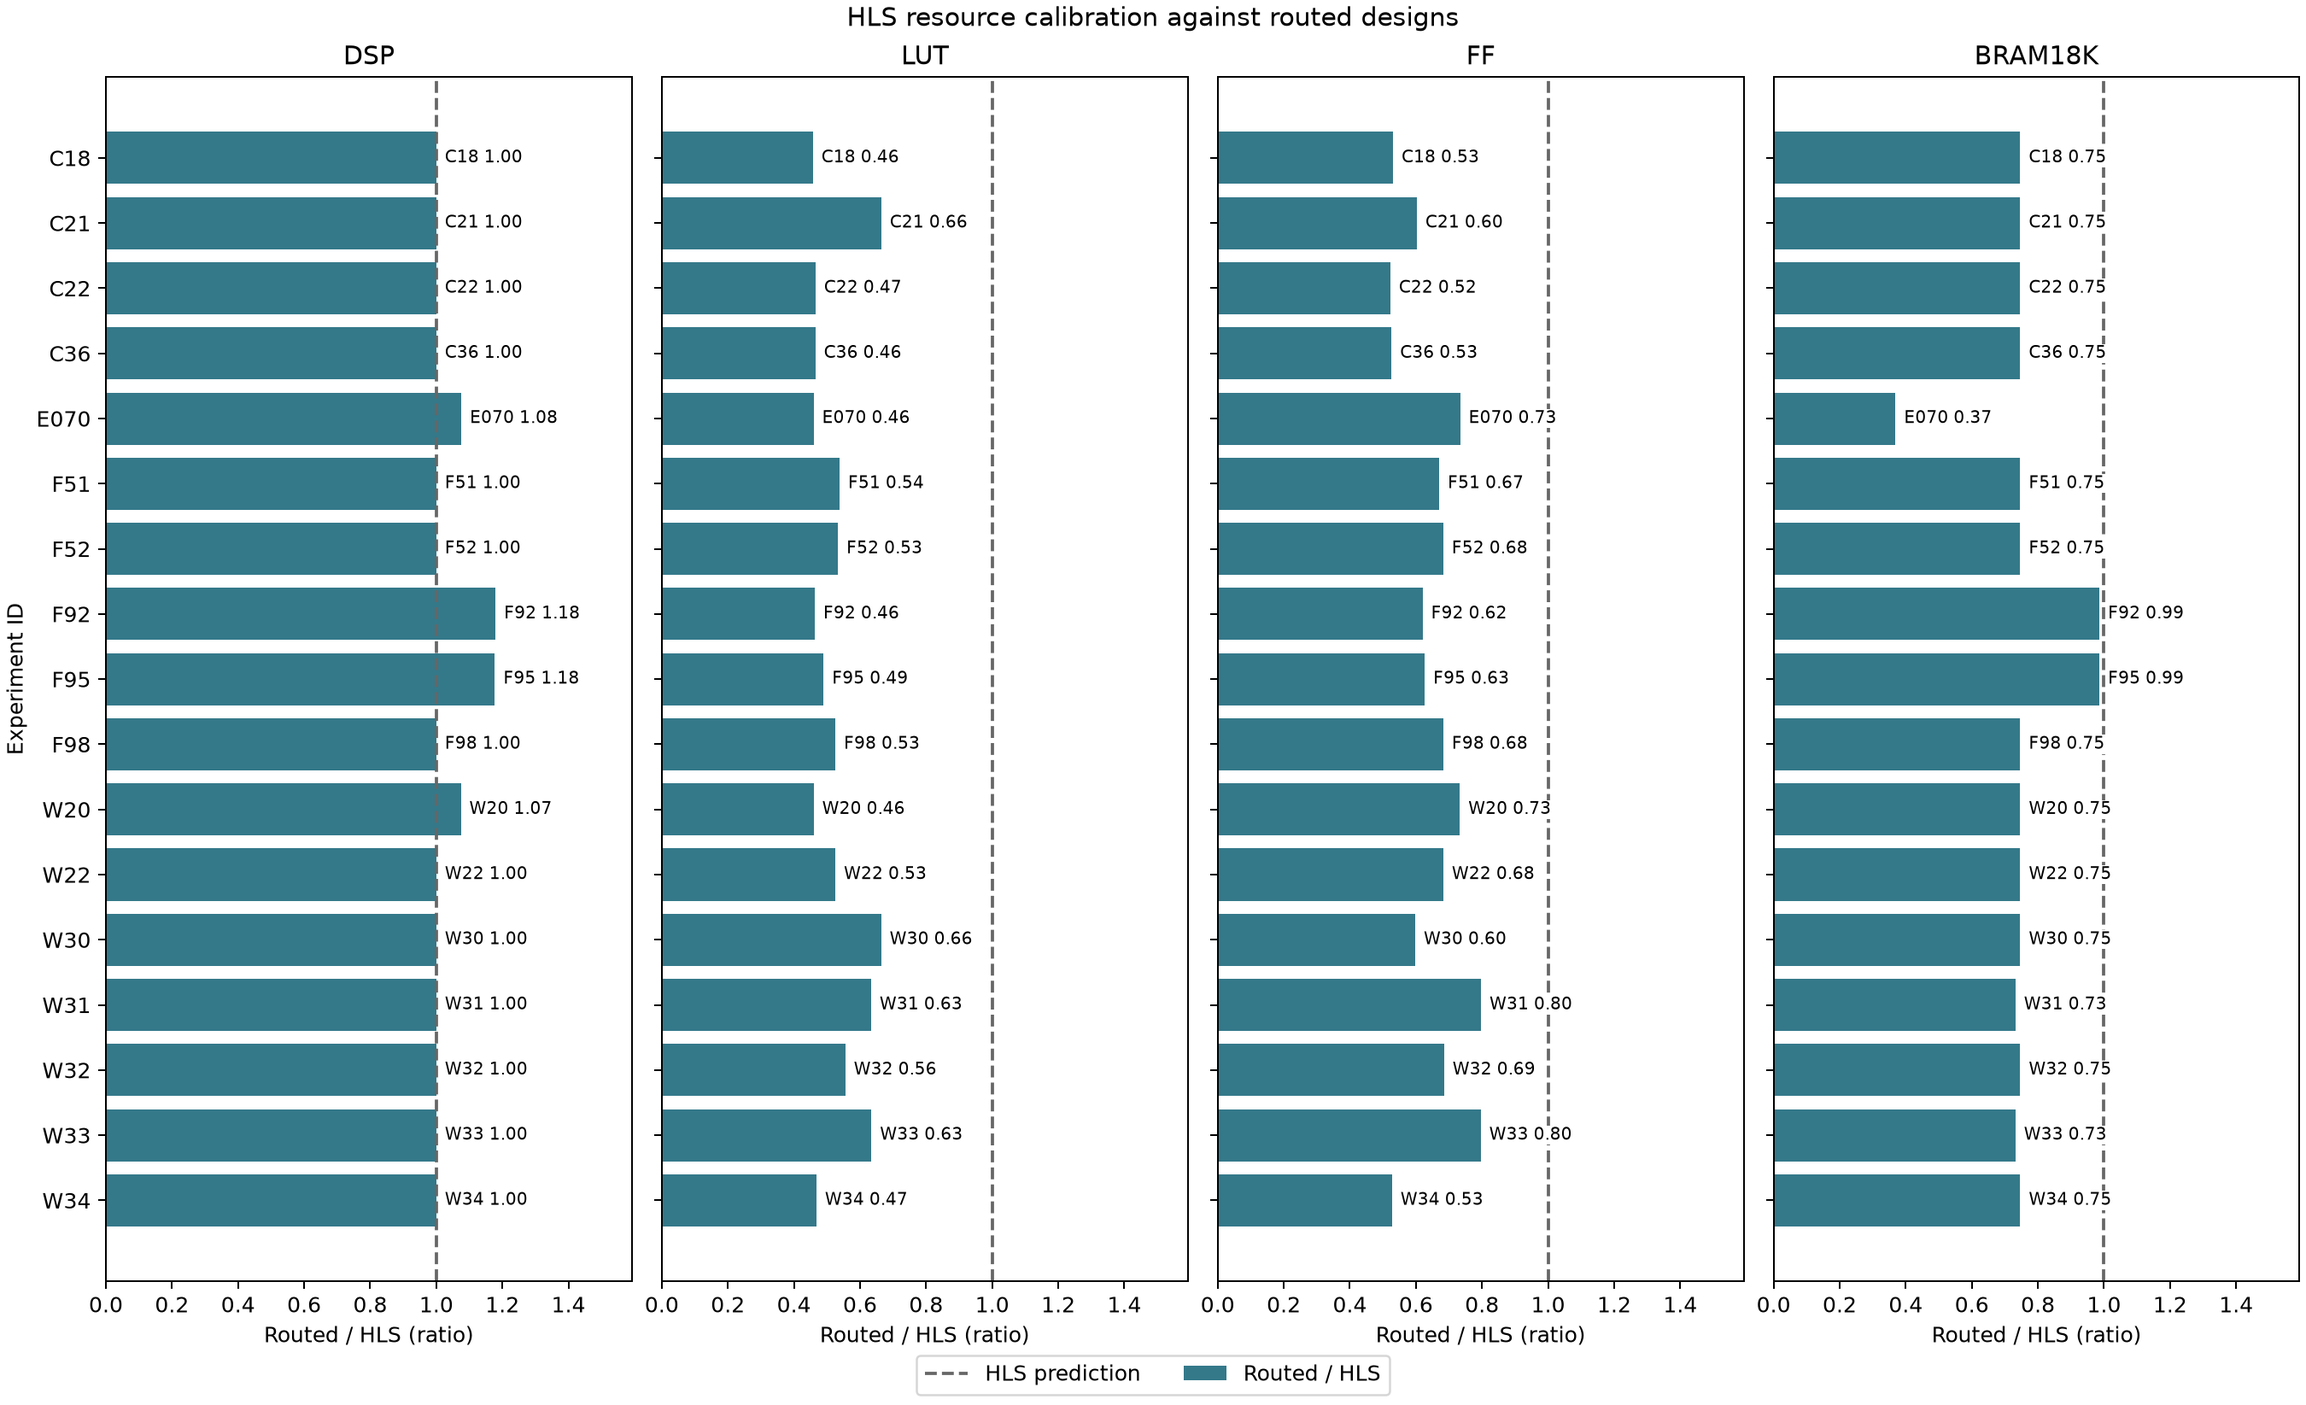
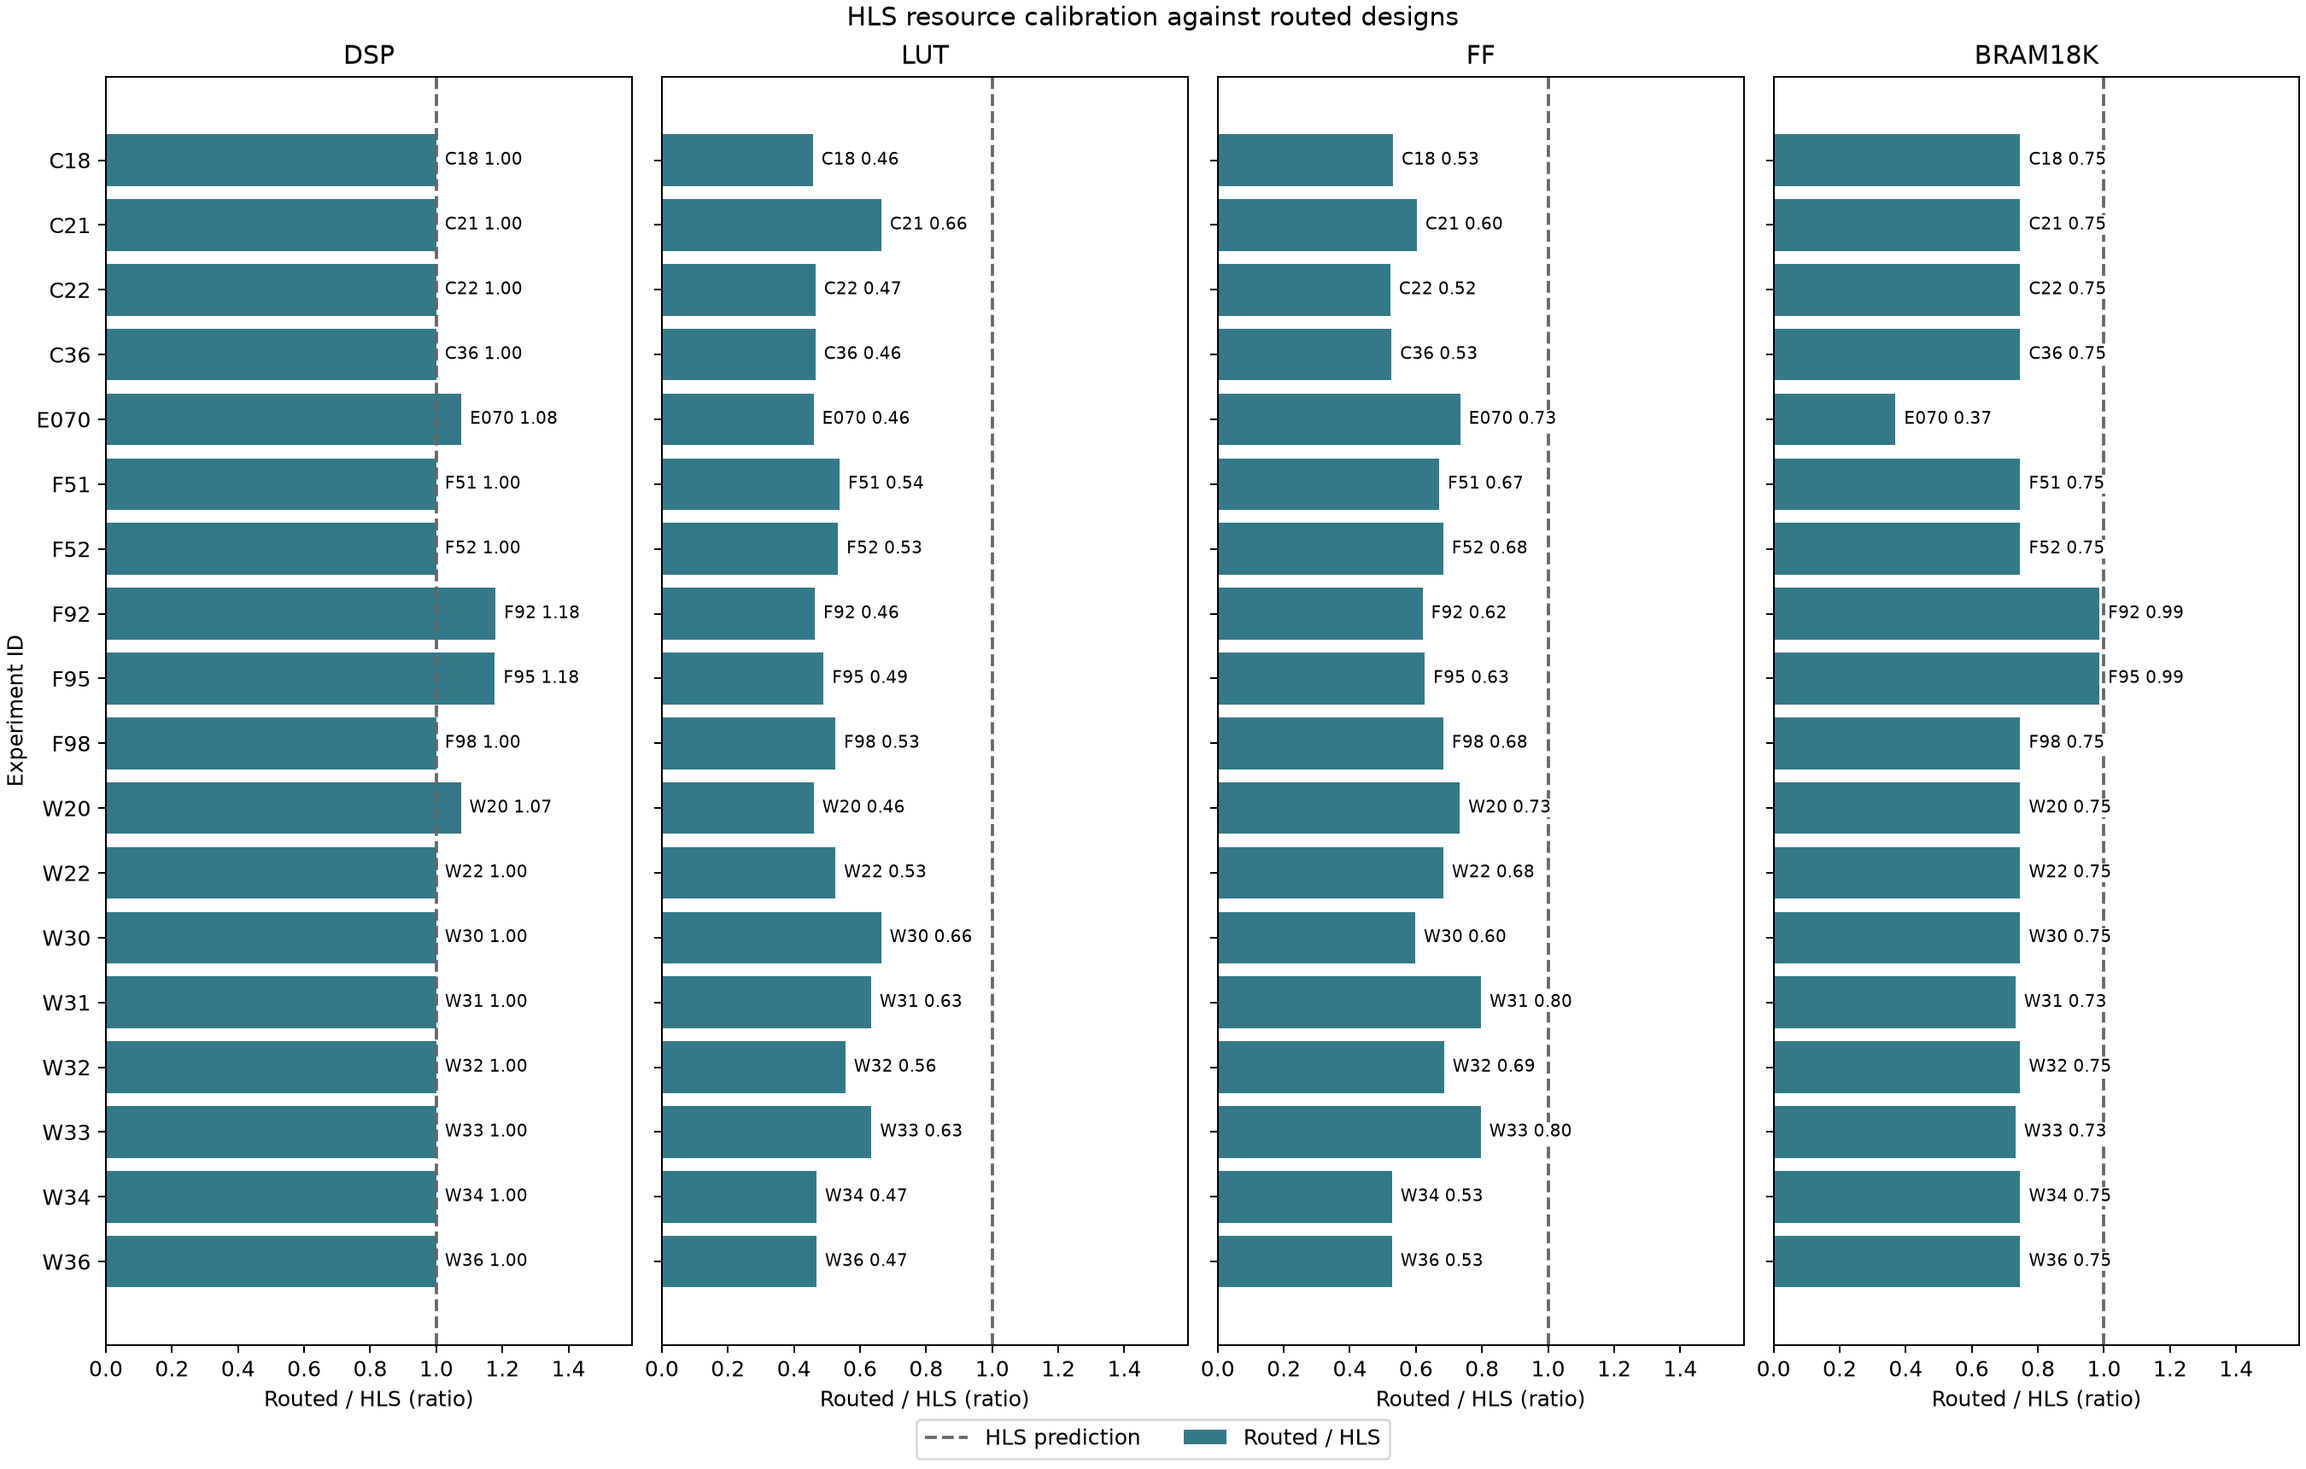
W36 refresh_route_comparison

diff --git a/experiments/ARCH_SUMMARY.md b/experiments/ARCH_SUMMARY.md
@@ -117,6 +117,7 @@ Measured follow-up records from docs/0005; their routed acceptance remains separ
 | [C34](C34_reload_windows_cold/C34.md) | C17 | csim_pass | 4 | unknown | unknown | unknown | unknown | unknown | unknown | unknown | unknown |
 | [C35](C35_ws_cosim_C32/C35.md) | C32 | cosim_complete | 4 | 263090.0 | 1032.0 | 128868.0 | 273025.0 | 3.7762742787639247 | unknown | unknown | unknown |
 | [C36](C36_ws_impl_C32/C36.md) | C32 | impl_complete | 4 | 263090.0 | 1032.0 | 128868.0 | 273025.0 | 3.7762742787639247 | unknown | False | unknown |
+| [W36](W36_ws_impl_C17/W36.md) | C17 | impl_complete | 4 | 263090.0 | 1032.0 | 127985.0 | 273023.0 | 3.7755140826333244 | unknown | False | unknown |
 | [C37](C37_t4_reload_paramreg/C37.md) | C32 | infeasible | 4 | 263154.0 | 1032.0 | 128942.0 | unknown | unknown | unknown | unknown | unknown |
 | [C38](C38_t4_reload_balanced/C38.md) | C32 | infeasible | 4 | 263092.0 | 1032.0 | 131780.0 | unknown | unknown | unknown | unknown | unknown |
 
@@ -144,8 +145,7 @@ Unmeasured plans have no actual result and do not enter rankings:
 | id | parent | operation | status | condition |
 | --- | --- | --- | --- | --- |
 | [W35](W35_ws_impl_C28/W35.md) | C28 | impl | unlaunched_conditional | C31 strict acceptance complete; required C28 standalone5ns route runs after prioritized WS-G/WS-H and before WS-I, on the sole heavy slot |
-| [W36](W36_ws_impl_C17/W36.md) | C17 | impl | queued_or_running | After prioritized C35/C36, supplement actual one-thread W34 with a fresh corrected four-thread4.5ns Performance_Explore run of frozen C17/C20-exact RTL; retain all timing/resource gates and observe actual child settings |
-| [C39](C39_ws_cosim_C37/C39.md) | C37 | cosim | unlaunched_conditional | C37 complete13-image quality,allfoldII1,HLS screening and224-bit clocked-data evidence pass; after W36 require four exact RTL calls,zero skipped parameter AXI,unchanged RTL and matching C35 per-call upper-only+1percent limits |
+| [C39](C39_ws_cosim_C37/C39.md) | C37 | cosim | queued_or_running | C37 complete13-image quality,allfoldII1,HLS screening and224-bit clocked-data evidence pass; after W36 require four exact RTL calls,zero skipped parameter AXI,unchanged RTL and matching C35 per-call upper-only+1percent limits |
 | [C40](C40_ws_impl_C37/C40.md) | C37 | impl | unlaunched_conditional | Launch only after strict C39 acceptance; independent4.5ns Performance_Explore staged implementation of frozen C37,observed synthesis1/route4threads and unchanged physical gates; no4ns plan until matching closure |
 
 ## P Direction
@@ -662,6 +662,7 @@ All numeric values come from frozen plans and parsed reports. Actual means csynt
 | [C36](C36_ws_impl_C32/C36.md) | frame | 1032.0 | 1032.0 | 0.0 | 263090.0 | unknown | unknown | impl_complete |
 | [C37](C37_t4_reload_paramreg/C37.md) | frame | 1032.0 | 1032.0 | 0.0 | 273153.0 | 263154.0 | -3.6605858255263524 | infeasible |
 | [C38](C38_t4_reload_balanced/C38.md) | frame | 1032.0 | 1032.0 | 0.0 | 273029.0 | 263092.0 | -3.639540122111573 | infeasible |
+| [W36](W36_ws_impl_C17/W36.md) | frame | 1032.0 | 1032.0 | 0.0 | 263090.0 | unknown | unknown | impl_complete |
 
 Largest percentage deviations (a zero paper denominator has no percentage):
 
@@ -734,6 +735,7 @@ HLS estimates are inherited only for provenance. Routed WNS/resources and two-fr
 | [W34](W34_t4_strategy_4p5_C17/W34.md) | frame | C17 | impl | impl_complete | 1032.0 | 54.5 | 59893.0 | 101443.0 | 0.0 | -0.324 | False | unknown | unknown | unknown | unknown |
 | [C35](C35_ws_cosim_C32/C35.md) | frame | C32 | cosim | cosim_complete | unknown | unknown | unknown | unknown | unknown | unknown | unknown | Pass | 273025 | 273057 | 3.7762742787639247 |
 | [C36](C36_ws_impl_C32/C36.md) | frame | C32 | impl | impl_complete | 1032.0 | 54.5 | 59891.0 | 102084.0 | 0.0 | -0.102 | False | unknown | unknown | unknown | unknown |
+| [W36](W36_ws_impl_C17/W36.md) | frame | C17 | impl | impl_complete | 1032.0 | 54.5 | 59894.0 | 101443.0 | 0.0 | -0.216 | False | unknown | unknown | unknown | unknown |
 
 Finite-FIFO RTL counters span both transactions, including startup/inactive cycles. A fast producer blocking behind the T-fold consumer is expected; these parallel counters cannot be added to frame latency. Full process/module measurements and counter schemas are in each verification archive.
 
@@ -1162,7 +1164,7 @@ User-cancelled obsolete retries were never launched and have no measured result.
 
 ## Next Steps
 
-Use the best exact resource-feasible architecture as the integration candidate only after checking routed slack and finite-FIFO RTL evidence. Prioritize the measured limiting loop/path or memory bank; retain strict precision, border and resource gates. C35 strict four-call exact/zero-parameter-AXI RTL passes; C36 physical resources pass but5ns setup fails atWNS-0.102/TNS-122.006. C37 passes13-image quality,allthreefoldII1,HLS screening,and actual224-bit data-register evidence. C39 four-call RTL and conditional C40 staged4.5ns route plans are committed; run after active corrected-four-thread C17 strategy experiment W36. C38 passes quality/II but248672HLS FF exceeds230000 screening; conservatively stop this variant's RTL/route followups and log diagnostic-routing review. Only a matching closed4.5ns point can receive a fresh4ns plan. W35 C28 standalone5ns route remains required before WS-I,which runs last. C22 remains verified1.365115ms fallback; reuse improvements lack closed matching routing. No board result exists; F90/F91 remain cancelled.
+Use the best exact resource-feasible architecture as the integration candidate only after checking routed slack and finite-FIFO RTL evidence. Prioritize the measured limiting loop/path or memory bank; retain strict precision, border and resource gates. W36 completes with confirmed general4/synth1,physical resources passing but4.5ns setup failing atWNS-0.216/TNS-16.7; five final worst paths are Winograd arithmetic/quantization with8-11logic levels. C39 is now running the four-call monitored RTL verification of C37; C40 starts only after exactness,zero skipped parameter AXI,unchanged RTL and original per-call bounds pass. C36 also failed5ns setup,so reload improvements still lack matching closure. C38 heavy followups remain stopped at248672HLS FF screening. Only a matching closed4.5ns point can receive a fresh4ns plan. Complete required W35 C28 standalone5ns routing next,then choose a strictly verified winner and commit WS-I's system plan last. C22 remains verified1.365115ms fallback. No board result exists; F90/F91 remain cancelled.
 
 ## Integrity Audit
 
@@ -1191,4 +1193,4 @@ Interim local/remote original and first-phase source checksum and report-provena
 
 ![Conv3 core and pad resource comparison](figs/conv3_core_resources.png)
 
-Generated from archived evidence at 2026-10-13T09:22:22+00:00.
+Generated from archived evidence at 2026-10-13T10:31:09+00:00.

diff --git a/experiments/W36_ws_impl_C17/W36.md b/experiments/W36_ws_impl_C17/W36.md
@@ -80,13 +80,11 @@ Independent workspace copy of `C17`, source commit `013a306867f6292bb87227062b32
 python3 exp/reproduce_exp.py W36 --run
 ```
 
-This rebuilds a fresh frozen parent before verification; see [reproduction guide](../REPRODUCE.md). Original reserved invocation:
+Allocates a fresh ID and restores frozen design/testbench sources; verification also rebuilds its parent. See [reproduction guide](../REPRODUCE.md). Original reserved invocation:
 
 ```sh
 python3 exp/run_exp.py --config exp/configs/W36.json
 ```
-
-No parent directory is overwritten.
 
 ## 5. Results / 结果
 
@@ -240,13 +238,43 @@ Physical hierarchy (parent totals include children; do not sum nested rows):
 
 <!-- AUTO: ROUTE ANALYSIS END -->
 
+<!-- AUTO: resource percentages -->
+
+| resource | count | device_capacity | device_pct | gate_pct | within_gate |
+| --- | --- | --- | --- | --- | --- |
+| DSP | 1032.0 | 1248 | 82.6923076923077 | 100 | True |
+| BRAM18K | 146.0 | 288 | 50.69444444444444 | 100 | True |
+| URAM | 0.0 | 64 | 0.0 | 100 | True |
+| LUT | 127985.0 | 117120 | 109.27681010928961 | 70.0 | False |
+| FF | 192308.0 | 234240 | 82.09870218579235 | 70.0 | False |
+
+<!-- END: resource percentages -->
+
 ## 6. Interpretation / 解读
 
-The final routed resource and timing measurements are in the automatic tables above and `data.csv`. All physical resource gates pass, but setup fails: the matching final post-route report gives WNS -0.216 ns and TNS -16.7 ns at the requested 4.5 ns. Hold passes at +0.032 ns, with no unrouted or partial nets. Compared with W34's actual one-thread result, the confirmed four-thread run improves WNS by 0.108 ns but does not establish timing closure.
+All final routed resource gates pass, but setup fails at the independently constrained 4.5 ns: WNS -0.216 ns and TNS -16.7 ns. Hold passes at +0.032 ns, with no unrouted or partial nets. The actual four-thread strategy improves WNS by 0.108 ns relative to W34's observed one-thread result, without proving timing closure.
 
-The five final paths in `critical_paths.csv` all traverse the Winograd arithmetic/quantization chain, with 8-11 logic levels; the worst path has 4.713 ns data-path delay. This is evidence for the separately planned arithmetic investigation, not evidence that a parameter-data register will resolve this path. `implementation/thread_observation.json` confirms general=4/synth=1 in the actual child and four-CPU physical-optimization limits. `host_memory_summary.csv` reports 10.631 GiB peak process-tree RSS and 5.274 GiB minimum available memory; host-average CPU utilization was 16.40% across 12 logical CPUs, so the configured four-thread limit is not a claim of four-core utilization throughout.
+The five final paths in `critical_paths.csv` all traverse Winograd arithmetic/quantization and contain 8-11 logic levels; the worst data-path delay is 4.713 ns. This supports a separate arithmetic investigation, not an assumption that registering parameter data resolves the remaining path. `implementation/thread_observation.json` confirms general=4/synth=1 and four-CPU physical-optimization limits in the real child. The measured peak process-tree RSS is 10.631 GiB, minimum available memory is 5.274 GiB, and host-average CPU utilization is 16.40% across 12 logical CPUs. The configured four-thread limit does not imply continuous four-core utilization.
 
-Relative to the frozen-parent HLS estimates, physical LUT, FF and BRAM18K are lower by more than 20%. The parsed route-to-HLS ratios are approximately 0.468, 0.528 and 0.747 respectively. Vivado maps and optimizes the generated RTL while HLS reports earlier structural estimates; both stages remain visible, and only the independent routed numbers supply the physical resource verdict. DSP remains exactly 1,032. The slack-derived 4.716 ns period is an estimate and cannot substitute for a new independently constrained implementation. The complete course Set14 contains 13 images, and no board measurement exists.
+LUT, FF and BRAM18K differ from HLS by more than 20%: the automatically parsed physical/HLS ratios are approximately 0.468, 0.528 and 0.747. Vivado maps and optimizes the generated RTL; HLS retains earlier structural estimates. DSP remains exactly 1,032. Preserve both accounting domains, and use only independently routed numbers for physical acceptance. The slack-derived 4.716 ns period is an estimate, not an accepted relaxed-clock result. C22 remains the verified 5 ns leader at 1.365115 ms/frame. No 4 ns probe is eligible from W36, and no board result exists.
+
+Estimate audit (parsed values; zero estimates have no percentage denominator):
+
+| metric | estimate | actual | actual_domain | actual_source | deviation_pct | over20pct |
+| --- | --- | --- | --- | --- | --- | --- |
+| DSP | 1032.0 | 1032.0 | routed | W36 | 0.0 | False |
+| BRAM18K | 146.0 | 109.0 | routed | W36 | -25.34246575342466 | True |
+| URAM | 0.0 | 0.0 | routed | W36 | unknown | False |
+| LUT | 127985.0 | 59894.0 | routed | W36 | -53.20232839785912 | True |
+| FF | 192308.0 | 101443.0 | routed | W36 | -47.24972440044096 | True |
+| latency_cycles | 263090.0 | unknown | routed | W36 | unknown | False |
+
+
+Explicit explanation of deviations above20%:
+
+Routed resource counts use the optimized physical netlist, while the frozen estimate is HLS operator/memory accounting. The routed timing and utilization reports are the evidence for this mapping difference, and do not measure frame cycles.
+
+Winograd budgets count2304 MACs per output but also need34-bit inverse additions,144 transformed values per window, a four-pixel output packet and two512-deep640-bit raster FIFOs. Continuous schedules eliminate tile restarts but retain this storage and transform logic; the layer/module table identifies whether the direct Conv2/Conv3 engine now sets the cycle bound.
 
 ## 7. Conclusion and next step / 结论与下一步
 

diff --git a/experiments/W36_ws_impl_C17/interpretation.md b/experiments/W36_ws_impl_C17/interpretation.md
@@ -1,0 +1,5 @@
+All final routed resource gates pass, but setup fails at the independently constrained 4.5 ns: WNS -0.216 ns and TNS -16.7 ns. Hold passes at +0.032 ns, with no unrouted or partial nets. The actual four-thread strategy improves WNS by 0.108 ns relative to W34's observed one-thread result, without proving timing closure.
+
+The five final paths in `critical_paths.csv` all traverse Winograd arithmetic/quantization and contain 8-11 logic levels; the worst data-path delay is 4.713 ns. This supports a separate arithmetic investigation, not an assumption that registering parameter data resolves the remaining path. `implementation/thread_observation.json` confirms general=4/synth=1 and four-CPU physical-optimization limits in the real child. The measured peak process-tree RSS is 10.631 GiB, minimum available memory is 5.274 GiB, and host-average CPU utilization is 16.40% across 12 logical CPUs. The configured four-thread limit does not imply continuous four-core utilization.
+
+LUT, FF and BRAM18K differ from HLS by more than 20%: the automatically parsed physical/HLS ratios are approximately 0.468, 0.528 and 0.747. Vivado maps and optimizes the generated RTL; HLS retains earlier structural estimates. DSP remains exactly 1,032. Preserve both accounting domains, and use only independently routed numbers for physical acceptance. The slack-derived 4.716 ns period is an estimate, not an accepted relaxed-clock result. C22 remains the verified 5 ns leader at 1.365115 ms/frame. No 4 ns probe is eligible from W36, and no board result exists.
